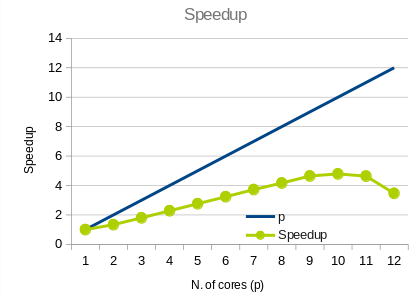
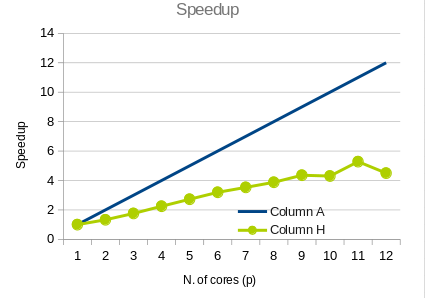
update pictures

Changed region(s): [[0.0312, 0.0, 1.0, 0.9966]]

diff --git a/Progetto-HPC-2023-2024/report/main.tex b/Progetto-HPC-2023-2024/report/main.tex
@@ -25,7 +25,12 @@ Questo mi ha consentito di evitare race condition, e di rendere il mio codice pi
 \newline
 \includegraphics[scale=0.5]{images/omp_speedup.png}
 \includegraphics[scale=0.5]{images/omp_strong.png}
-La ragione per cui la strong scaling efficency diminuisce nella dodicesima iterazione è che il thread probabilmente viene usato dal sistema operativo.
+La ragione per cui lo speedup diminuisce nella dodicesima iterazione è che il thread probabilmente viene usato dal sistema operativo.
+\newline
+\newline
+\includegraphics[scale=0.5]{images/omp_weak.png}
+\newline
+Dato che il carico è bilanciato dinamicamente, le performance in weak scaling sono molto buone.
 
 \section*{Versione MPI}
 Usando \textbf{MPI}\cite{mpi}, dato che ogni processo ha bisogno di ricevere un' array aggiornato con tutte le informazioni rilevanti ai cerchi, 
